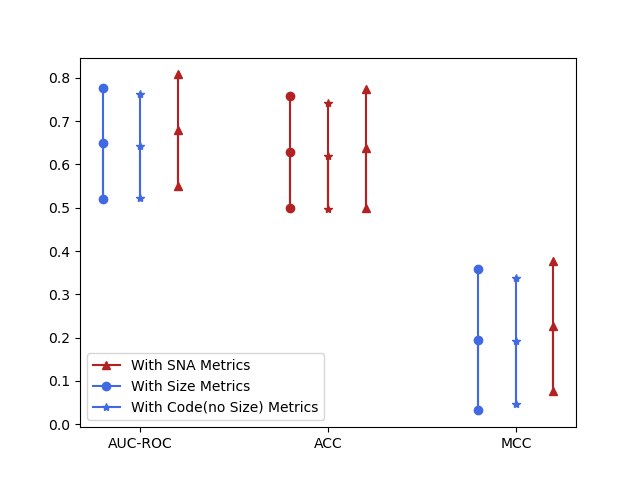
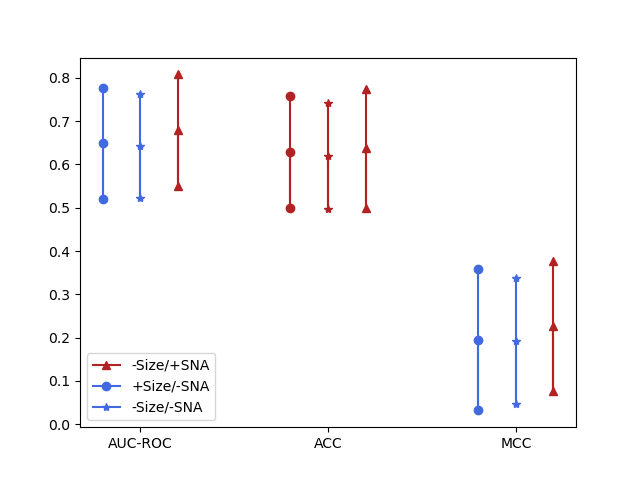
0211_结果名称

Changed region(s): [[0.1875, 0.75, 0.5, 0.875]]

diff --git a/code_/rq1_2/SKESD_res.py b/code_/rq1_2/SKESD_res.py
@@ -87,11 +87,11 @@ def multi_res_img(df,tag,model,validation):
     # '''
     for idx in range(0,len(method)):
         if method[idx] == 'cs_':
-            method[idx] = "With SNA Metrics"
+            method[idx] =  "-Size/+SNA" #"With SNA Metrics"
         elif method[idx] == 'all_code':
-            method[idx] = "With Size Metrics"
+            method[idx] = "+Size/-SNA" # Without SNA Metrics
         elif method[idx] == 'code_nosize':
-            method[idx] = "With Code(no Size) Metrics"
+            method[idx] = "-Size/-SNA" #"With Code(Without Size) Metrics"
     # plt.xticks(list(x.values()), list(x.keys()))
     plt.xticks(list(x.values()),['AUC-ROC','ACC','MCC'])
     # plt.title("SK-ESD-"+validation)
